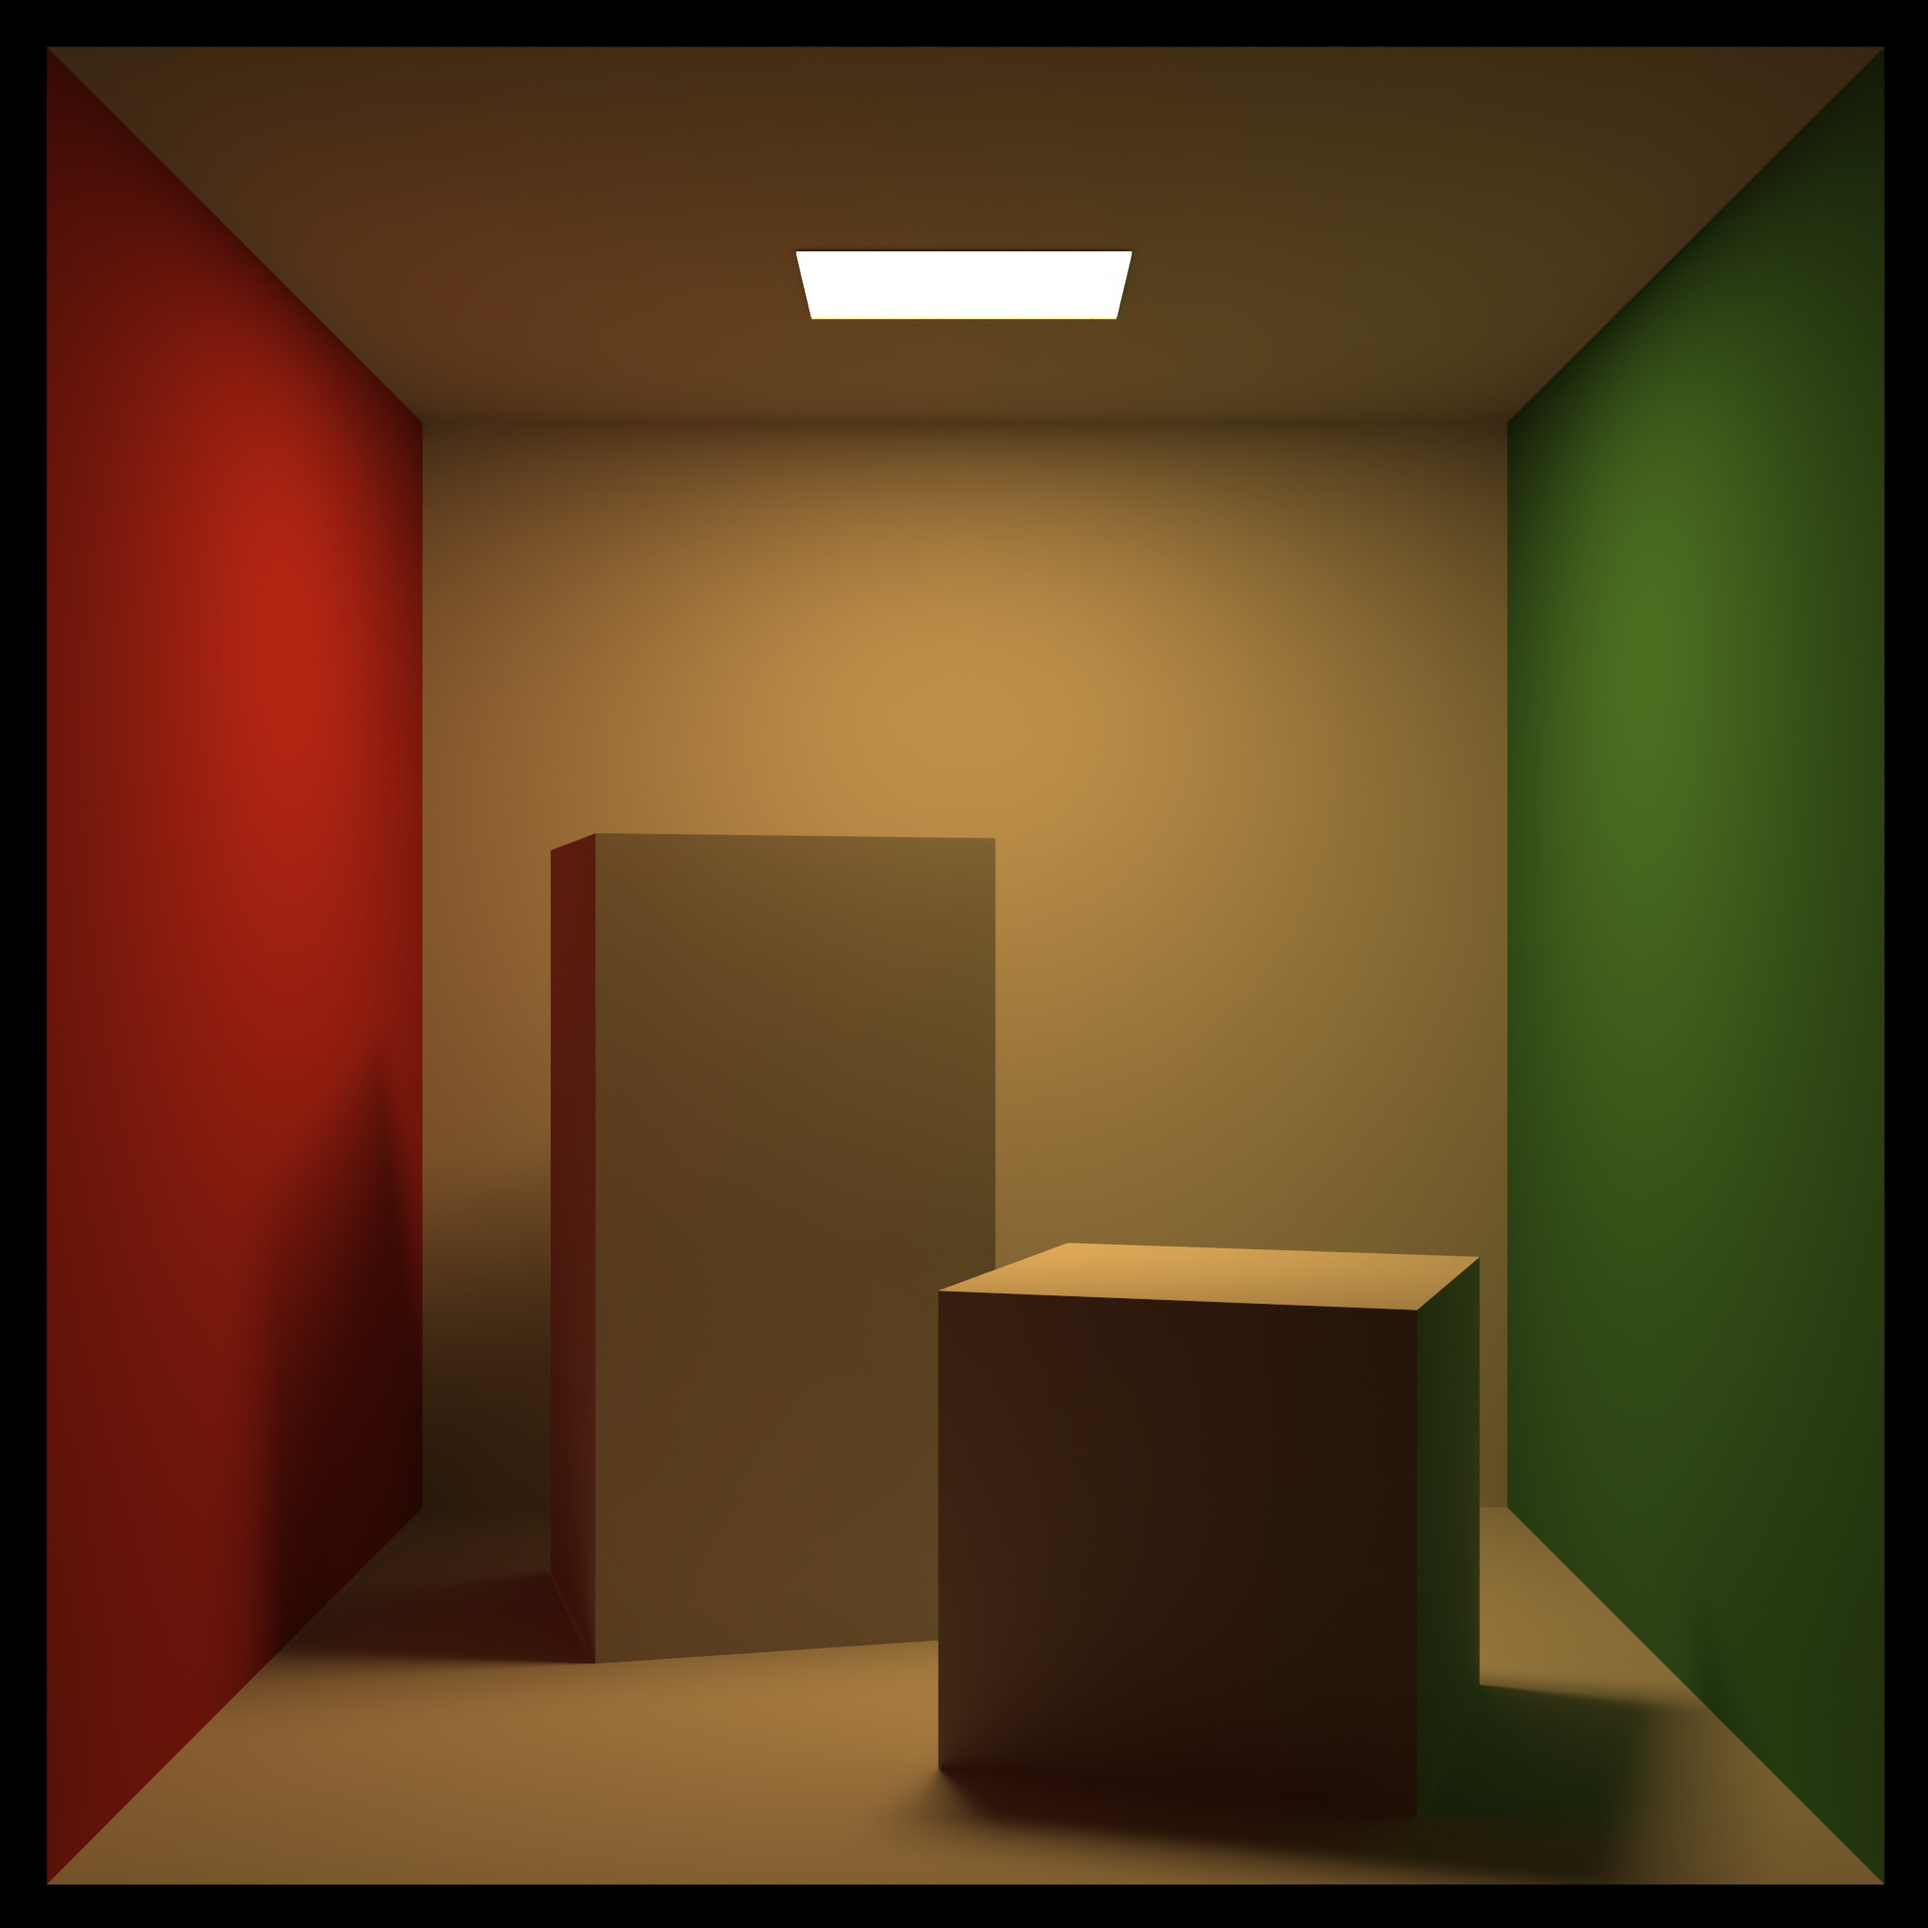
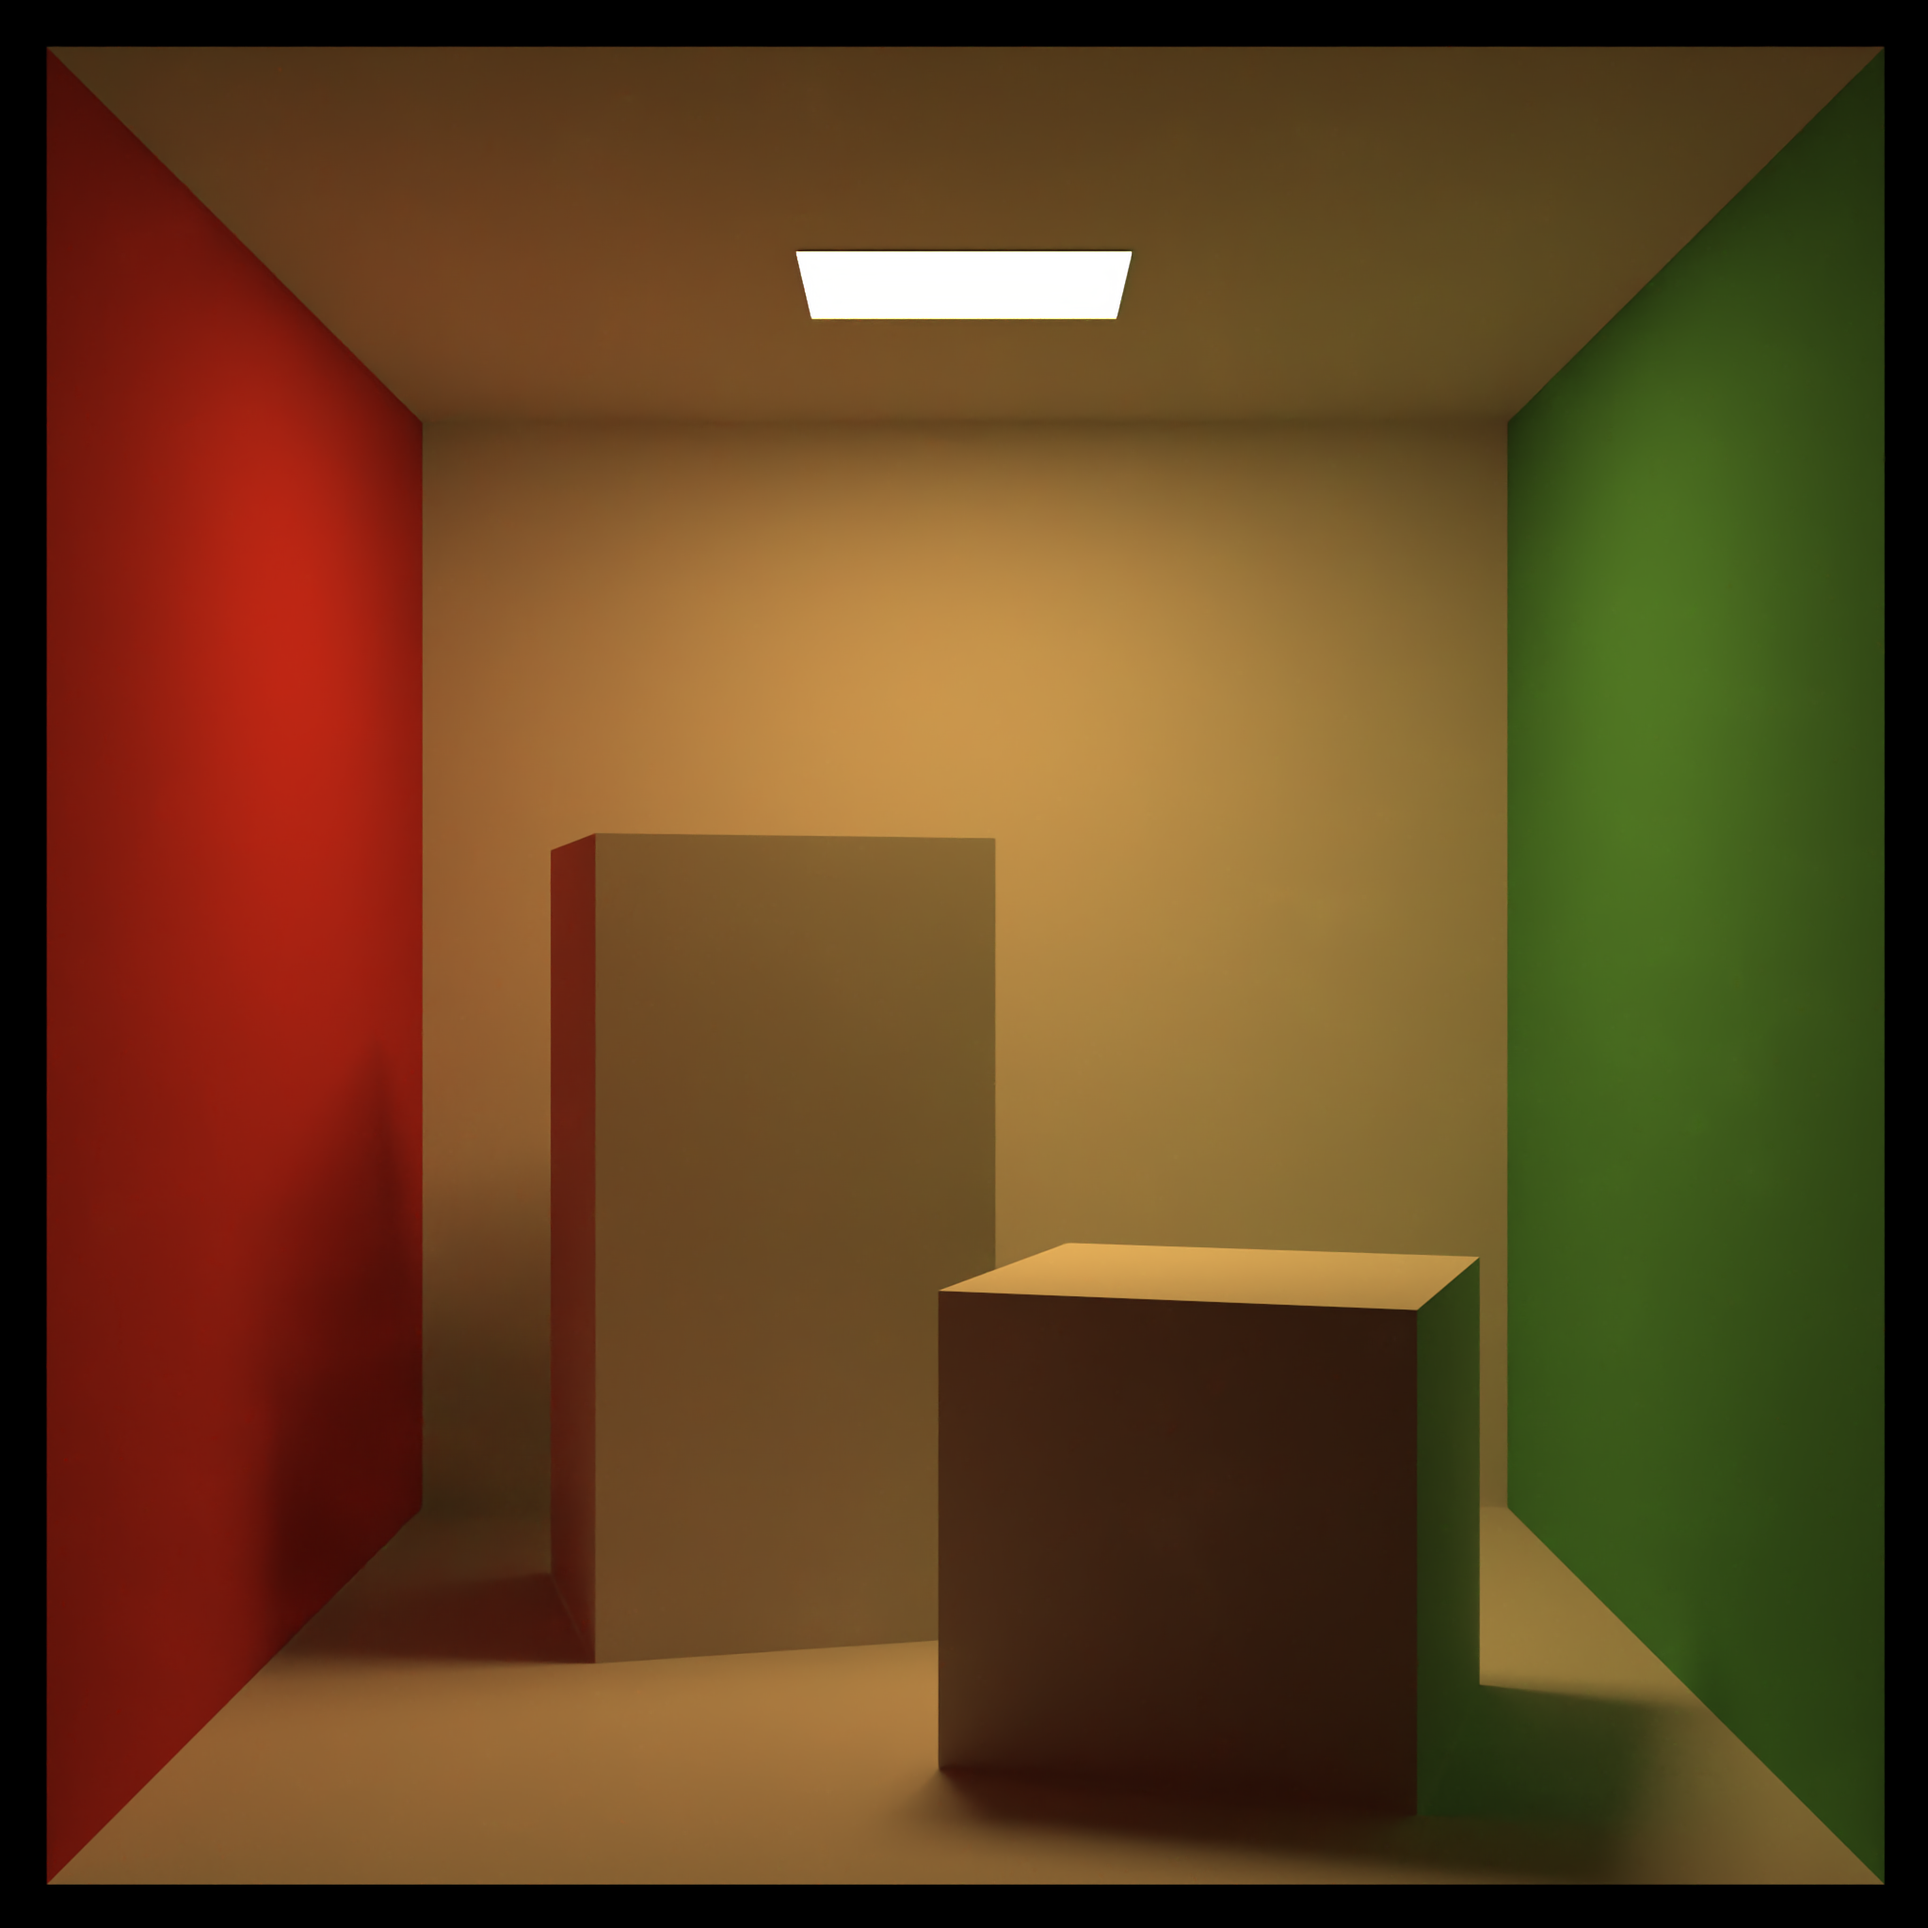
Accumulate attenuation prior to dividing by termination term

Changed region(s): [[0.125, 0.625, 0.2188, 0.875], [0.0938, 0.0938, 0.125, 0.125]]

diff --git a/src/ray.rs b/src/ray.rs
@@ -82,7 +82,7 @@ pub fn compute_color(ray: &Ray,
         let emitted = hit_record.material.emitted(ray, &hit_record);
         if rng.gen::<f32>() < termination {
             if let Some((attenuation, _, _)) = hit_record.material.scatter(ray, &hit_record, rng) {
-                throughput = attenuation.clone() / termination;
+                throughput = throughput.component_mul(&attenuation);
 
                 let cosine_pdf =
                     PDF::CosinePDF { uvw: OrthonormalBase::new(&hit_record.normal.normalize()) };
@@ -104,6 +104,8 @@ pub fn compute_color(ray: &Ray,
                                                                          atmosphere,
                                                                          rng)))
                              / pdf;
+
+                throughput /= termination;
 
                 return emitted + throughput;
             }
